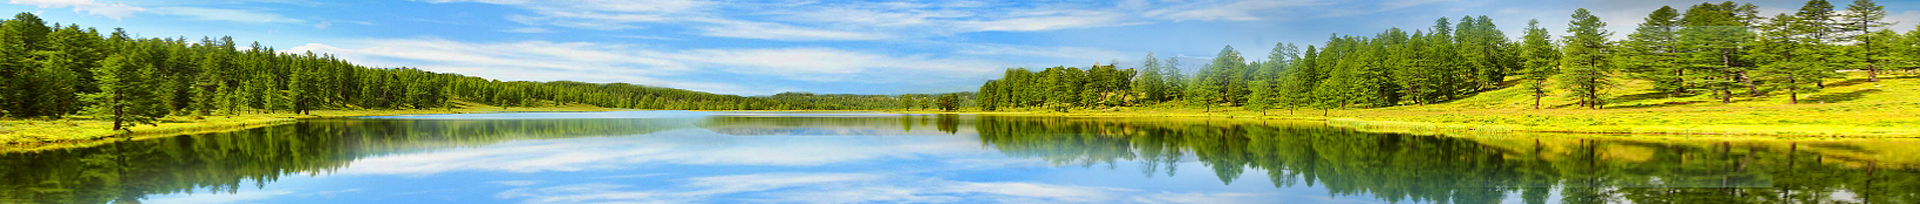
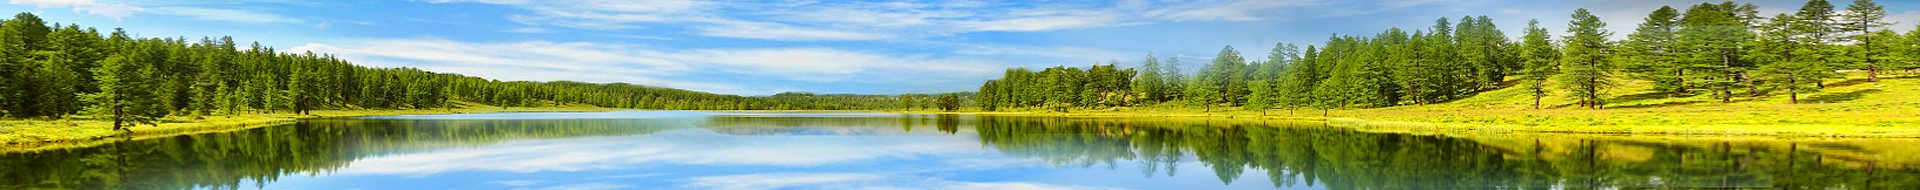
Small fixes

diff --git a/docs/css/bundle.css b/docs/css/bundle.css
@@ -1,1 +1,1 @@
-@font-face{-webkit-font-smoothing:none;font-weight:400;font-style:normal;text-rendering:auto;font-family:Cooper;src:url(../fonts/Cooper.eot);src:url(../fonts/Cooper.eot?#iefix) format('embedded-opentype'),url(../fonts/Cooper.woff) format('woff'),url(../fonts/Cooper.ttf) format('truetype'),url(../fonts/Cooper.svg#RussoOne) format('svg')}*{font-family:"Times New Roman",serif;box-sizing:border-box}body{background-image:url(../img/background-wood-big.png);background-repeat:repeat-y;background-position:center}p{margin:0}.container{position:relative}.header{background-image:url(../img/header.png);background-position:center;height:204px}.header .container{height:100%;padding:5px 15px}.header__item,.header__logo-text,.header__phone{color:#1d316b;font-family:Cooper,Times,cursive;font-size:37px;font-weight:400;line-height:44.41px;text-shadow:-2px 0 #fff,0 2px #fff,2px 0 #fff,0 -2px #fff}.header__logo-text{color:#004c31;position:absolute;left:15px;bottom:10px}.header__item--logo-text{float:right;margin:0}.header__logo{width:90px;height:90px;position:absolute;left:15px;top:25px;background-image:url(../img/logo.png)}.header__phone{position:absolute;right:15px;bottom:10px;text-align:center;font-size:48px;color:#1d316b;text-decoration:none;padding-left:65px}.header__phone:before{content:'';width:47px;height:47px;position:absolute;top:0;left:0;background-image:url(../img/phone.png);background-size:contain;background-repeat:no-repeat;background-position:center}.navbar{height:56px}.navbar .container{position:relative;height:100%}.navbar--wood{background-image:url(../img/navbar-wood.png);background-repeat:repeat-x;background-position:center;background-size:100% 100%;box-shadow:1px 8px 10px rgba(0,0,0,.79);margin-bottom:5px}.navbar__toggler{position:absolute;display:none;border:none;width:50px;height:30px;cursor:pointer;background:0 0;top:0;bottom:0;margin:auto;left:15px}.navbar__toggler .icon-bar{background:#fff;display:block;width:100%;height:3px;margin-bottom:10px}.nav{padding:5px 0;margin:0}.nav__item{position:relative;display:inline-block;height:46px;padding:12px 12px 12px 40px;text-align:center;cursor:pointer}.nav__item:before{content:'';width:25px;height:25px;position:absolute;left:10px;top:0;bottom:0;margin:auto;background-position:center;background-repeat:no-repeat;background-size:contain}.nav__item--active,.nav__item:hover{background-image:url(../img/nav-active.png);background-repeat:no-repeat;background-size:100% 100%}.nav__item--active .nav__link,.nav__item:hover .nav__link{color:#441613}.nav__item--main:before{background-image:url(../img/main.png)}.nav__item--soft:before{background-image:url(../img/soft.png)}.nav__item--apts:before{background-image:url(../img/apts.png)}.nav__item--clients:before{background-image:url(../img/clients.png)}.nav__item--contacts:before{background-image:url(../img/contacts.png)}.nav__item--main.nav__item--active:before,.nav__item--main:hover:before{background-image:url(../img/main-b.png)}.nav__item--soft.nav__item--active:before,.nav__item--soft:hover:before{background-image:url(../img/soft-b.png)}.nav__item--apts.nav__item--active:before,.nav__item--apts:hover:before{background-image:url(../img/apts-b.png)}.nav__item--clients.nav__item--active:before,.nav__item--clients:hover:before{background-image:url(../img/clients-b.png)}.nav__item--contacts:hover:before{background-image:url(../img/contacts-b.png)}.nav__link{color:#fee8ab;text-decoration:none;font-size:22px;font-weight:400}.dropdown{display:none}.row--dust{padding:20px 15px 0 15px;background-image:url(../img/dust-big.png);background-position:center;background-repeat:no-repeat;background-size:100% 100%}.row__footer{height:10px;margin:0 -25px;background-image:url(../img/closer-wood.png);background-position:center center;background-repeat:no-repeat;background-size:100% 100%;margin-bottom:50px}.alphabet{margin-bottom:15px;max-width:370px;text-align:center;left:0;right:0;margin:auto}.alphabet__title{color:#000;font-size:20px;font-weight:400;line-height:24px;margin-bottom:10px}.alphabet__list{padding:0;list-style:none;display:block;margin:0;margin-bottom:15px}.alphabet__item{display:inline-block;margin-right:5px}.alphabet__link{color:#9a5d2b;font-family:"Times New Roman PSMT";font-size:18px;font-weight:400;line-height:24px;text-transform:uppercase;text-decoration:none}.alphabet__link:hover{color:#212121;text-decoration:underline}.icon{display:inline;cursor:pointer}.icon--help{background-image:url(../img/help.png);background-size:contain;background-position:center;width:60px;height:60px}#help{position:absolute;right:15px;top:0;bottom:0;margin:auto}.scroll{margin-bottom:25px;display:-ms-flexbox;display:flex;-ms-flex-direction:column;flex-direction:column}.scroll__body{background-image:url(../img/scroll-bg.png);background-position:center;background-repeat:no-repeat;background-size:100% 100%;box-shadow:1px 5px 13px rgba(0,0,0,.32),inset 1px 5px 5px rgba(0,0,0,.32);border-left:2px solid #ac672d;border-right:2px solid #ac672d;overflow:hidden;padding:10px 20px;height:100%}.scroll__body--fw{padding:20px 0 10px 0}.scroll__body--flex{display:-ms-flexbox;display:flex;-ms-flex-direction:column;flex-direction:column;-ms-flex-wrap:nowrap;flex-wrap:nowrap;-ms-flex-pack:justify;justify-content:space-between;-ms-flex-align:stretch;align-items:stretch;-ms-flex-line-pack:stretch;align-content:stretch}.scroll__header{position:relative;display:-ms-flexbox;display:flex;-ms-flex-direction:row;flex-direction:row;-ms-flex-wrap:nowrap;flex-wrap:nowrap;-ms-flex-pack:center;justify-content:center;-ms-flex-align:center;align-items:center;-ms-flex-line-pack:stretch;align-content:stretch;height:75px!important;padding:14px 20px;margin:0 -5px;text-shadow:1px 3px 3px rgba(75,31,10,.75);color:#fff;font-family:"Times New Roman PSMT";font-size:22px;font-weight:400;line-height:24px;text-align:center;border-radius:5px;background-image:url(../img/scroll-header.png);background-position:center center;background-repeat:no-repeat;background-size:100% 100%}.scroll__header .input{margin:6px 0}.scroll__footer{height:10px;margin:0 -5px;background-image:url(../img/closer-wood.png);background-position:center center;background-repeat:no-repeat;background-size:100% 100%}.search__term{height:73px;background-image:url(../img/term-bg.png);background-position:center center;background-repeat:no-repeat;background-size:100% 100%;box-shadow:1px 5px 5px rgba(0,0,0,.79);border-radius:10px;margin-bottom:15px;padding:10px 15px}.search__button{text-align:center;margin-bottom:10px}.input-group{position:relative;box-shadow:1px 4px 4px rgba(0,0,0,.75),inset 1px 5px 6px 1px rgba(0,0,0,.42);border:2px solid #290c03;border-radius:15px;overflow:hidden}.input-group__input{height:48px;width:100%;padding-left:19px}.input-group__btn{display:block;position:absolute;right:0;top:0;width:43px;height:48px;background-image:url(../img/search-icon.png);background-position:center center;background-repeat:no-repeat;background-size:100% 100%}.input{width:100%;height:35px;box-shadow:1px 4px 4px rgba(0,0,0,.75),inset 1px 2px 3px 1px rgba(0,0,0,.42);border:2px solid #99371d;border-radius:10px;font-size:14px;font-weight:400;line-height:35px;padding:0 15px}.filters{padding:10px 30px;background-image:url(../img/filters-bg.png);background-position:center center;background-repeat:no-repeat;background-size:100% 100%;margin-bottom:15px}.filters__title{color:#555;font-size:18px;font-weight:400;line-height:24px;text-align:center;margin-bottom:10px}.filters__cleaner{color:#532a1e;font-size:18px;font-weight:400;line-height:24px;text-decoration:underline;text-align:center;display:block}.filters__cleaner:hover{text-decoration:none}.filters__filter{margin-bottom:10px}.select{position:relative;width:100%}.select__placeholder{position:relative;display:block;overflow:hidden;height:29px;box-shadow:inset 1px 3px 3px rgba(0,0,0,.29);border:1px solid #c5a14a;font-size:16px;font-weight:400;line-height:29px;border-radius:5px;padding:0 30px 0 15px;text-align:left;color:#868686;background-color:#fff;cursor:pointer;white-space:nowrap}.select__inner{display:none;position:absolute;width:95%;top:28px;left:0;right:0;margin:auto;background:#fff;border:1px solid #b78e4e;border-radius:0 0 5px 5px;z-index:2;overflow:hidden}.select__item{cursor:pointer;padding:5px 10px;color:#4c4c4c;border:1px solid #fff}.select__item:hover{border:1px solid #b4ac7e;background-image:linear-gradient(to top,#d4b789 0,#e6cfac 100%);color:#6b4222}.select:after{content:"";position:absolute;right:0;top:0;width:27px;height:29px;background-image:url(../img/select.png);background-position:center center;background-repeat:no-repeat;background-size:100% 100%;cursor:pointer}.select--active .select__inner{display:block}.select--active:after{background-image:url(../img/select-opened.png)}.btn{background-color:none;cursor:pointer;border:none;transition:box-shadow .3s ease}.btn--search{text-shadow:1px 4px 3px rgba(0,0,0,.75);color:#fee8ab;font-size:18px;font-weight:400;line-height:45px;text-transform:uppercase;height:45px;width:250px;background-image:url(../img/btn-wood.png);background-position:center center;background-repeat:no-repeat;background-size:100% 100%;border-radius:25px;box-shadow:1px 5px 5px rgba(0,0,0,.79)}.btn--search:hover{box-shadow:1px 3px 3px rgba(0,0,0,.79)}.btn--search:active{box-shadow:1px 2px 2px rgba(0,0,0,.79)}.list{margin:0;padding:0;list-style:none}.list__item{display:block;cursor:pointer;background-image:linear-gradient(to bottom,#f9f6eb 0,#e6dbca 100%);border-bottom:1px solid #c5baa7;padding:0 50px}.list__item span{line-height:41px}.list__item .list__link{color:#252525}.list__item:hover{background-image:linear-gradient(to top,#511c04 0,#b1390d 100%)}.list__item:hover .list__link,.list__item:hover span{color:#fff}.list__link{font-size:18px;font-weight:400;line-height:41px;text-decoration:none}.pull--right{float:right}.news__item{position:relative;display:-ms-flexbox;display:flex;padding:10px 0;border-bottom:1px solid #d3b59e}.news__item__desc{width:calc(100% - 115px)}.news__img{width:100px;height:100px;margin-right:15px;overflow:hidden}.news__img img{width:100%}.news__date{color:#606060;font-size:18px;font-weight:400;line-height:18px;margin-bottom:15px}.news__title{color:#252525;font-size:18px;font-weight:400;line-height:18px;margin-bottom:15px}.news__link{display:block;text-align:right;right:0;font-size:16px;font-weight:400;line-height:18px;text-decoration:underline;color:#4b2a06}.link{position:relative;display:block;color:#532a1e;font-size:20px;font-weight:400;line-height:24px;text-decoration:underline;text-align:center}.link--eye{padding-left:35px;margin-top:25px;margin-bottom:20px}.link--eye:before{position:absolute;content:'';width:30px;height:25px;left:10px;top:0;bottom:0;margin:auto;background-image:url(../img/eye.png);background-repeat:no-repeat;background-position:center;background-size:contain}.map{background-color:#ccc;background-image:url(../img/map.png);width:100%;height:100%;cursor:pointer}.cart{position:absolute;right:15px;top:0;bottom:0;margin:auto;height:47px;width:180px;background-image:url(../img/cart-bg.png);background-position:center;background-size:100% 100%;background-repeat:no-repeat;padding:5px 5px 5px 60px;text-align:center}.cart__title{font-size:18px;font-weight:400;line-height:20px;color:#fde7a9;margin-bottom:0;text-transform:uppercase}.cart__inner{font-size:14px;font-weight:400;line-height:18px;color:#fde7a9;margin-bottom:0}.cart::before{content:'';position:absolute;left:20px;width:30px;height:25px;top:0;bottom:0;margin:auto;background-image:url(../img/cart.png);background-position:center;background-size:contain}@media only screen and (min-width :768px) and (max-width:991px){.header{height:165px}.header__item,.header__logo-text,.header__phone{font-size:24px;line-height:28px}.header__phone{padding-left:50px}.header__phone:before{width:35px;height:35px}}@media only screen and (min-width :992px) and (max-width:1199px){.header{height:180px}.header__item,.header__logo-text,.header__phone{font-size:31px;line-height:36px}.header__phone:before{width:40px;height:40px}.nav__item{padding:12px 12px 12px 30px}.nav__item:before{width:20px;height:20px;left:5px}}@media only screen and (min-width :1200px){.nav__item{padding-left:50px}}@media only screen and (max-width :767px){.container{width:100%}.header{height:150px}.header__item,.header__logo-text,.header__phone{font-size:18px;line-height:26px}.header__logo-text{display:none}.header__item--logo-text{float:none;text-align:center}.header__logo{display:none}.header__phone{padding-left:40px;left:0;right:0;margin:auto;width:160px}.header__phone:before{width:30px;height:30px}.nav__item{display:block;width:100%;text-align:left;padding:12px 50px}.row__footer{margin:0 -15px;margin-bottom:50px}.icon--help{width:30px;height:30px}#help{right:10px}.scroll{padding:0}.scroll__header{font-size:16px;line-height:20px}.input-group__input{font-size:14px}.btn--search{width:200px}.news__item{display:block}.news__item__desc{width:100%}.news__img{display:none}.news__date{margin-bottom:5px}.news__title{margin-bottom:5px}.map{height:300px}}@media only screen and (max-width :991px){.navbar__toggler{display:block}.nav{position:absolute;left:0;top:60px;max-height:0;height:auto;transition:max-height .25s ease-out;overflow:hidden;z-index:99;width:100%;padding:0;background-size:100% 100%;background-color:#702307}.nav--active{max-height:500px;transition:max-height .35s ease-in}}
+@font-face{-webkit-font-smoothing:none;font-weight:400;font-style:normal;text-rendering:auto;font-family:Cooper;src:url(../fonts/Cooper.eot);src:url(../fonts/Cooper.eot?#iefix) format('embedded-opentype'),url(../fonts/Cooper.woff) format('woff'),url(../fonts/Cooper.ttf) format('truetype'),url(../fonts/Cooper.svg#RussoOne) format('svg')}*{font-family:"Times New Roman",serif!important;box-sizing:border-box}body{background-image:url(../img/background-wood-big.png);background-repeat:repeat-y;background-position:center}p{margin:0}.container{position:relative}.header{background-image:url(../img/header.png);background-position:center;height:190px}.header .container{height:100%;padding:5px 15px}.header__item,.header__logo-text,.header__phone{color:#1d316b;font-family:Cooper,Times,cursive;font-size:37px;font-weight:400;line-height:44.41px;text-shadow:-2px 0 #fff,0 2px #fff,2px 0 #fff,0 -2px #fff}.header__logo-text{color:#004c31;position:absolute;left:15px;bottom:10px}.header__item--logo-text{float:right;margin:0}.header__logo{width:90px;height:90px;position:absolute;left:15px;top:25px;background-image:url(../img/logo.png)}.header__phone{position:absolute;right:15px;bottom:10px;text-align:center;font-size:48px;color:#1d316b;text-decoration:none;padding-left:65px}.header__phone:before{content:'';width:47px;height:47px;position:absolute;top:0;left:0;background-image:url(../img/phone.png);background-size:contain;background-repeat:no-repeat;background-position:center}.navbar{height:56px}.navbar .container{position:relative;height:100%}.navbar--wood{background-image:url(../img/navbar-wood.png);background-repeat:repeat-x;background-position:center;background-size:100% 100%;box-shadow:1px 8px 10px rgba(0,0,0,.79);margin-bottom:5px}.navbar__toggler{position:absolute;display:none;border:none;width:50px;height:30px;cursor:pointer;background:0 0;top:0;bottom:0;margin:auto;left:15px}.navbar__toggler .icon-bar{background:#fff;display:block;width:100%;height:3px;margin-bottom:10px}.nav{padding:5px 0;margin:0}.nav__item{position:relative;display:inline-block;height:46px;padding:12px 12px 12px 40px;text-align:center;cursor:pointer}.nav__item:before{content:'';width:25px;height:25px;position:absolute;left:10px;top:0;bottom:0;margin:auto;background-position:center;background-repeat:no-repeat;background-size:contain}.nav__item--active,.nav__item:hover{background-image:url(../img/nav-active.png);background-repeat:no-repeat;background-size:100% 100%}.nav__item--active .nav__link,.nav__item:hover .nav__link{color:#441613}.nav__item--main:before{background-image:url(../img/main.png)}.nav__item--soft:before{background-image:url(../img/soft.png)}.nav__item--apts:before{background-image:url(../img/apts.png)}.nav__item--clients:before{background-image:url(../img/clients.png)}.nav__item--contacts:before{background-image:url(../img/contacts.png)}.nav__item--main.nav__item--active:before,.nav__item--main:hover:before{background-image:url(../img/main-b.png)}.nav__item--soft.nav__item--active:before,.nav__item--soft:hover:before{background-image:url(../img/soft-b.png)}.nav__item--apts.nav__item--active:before,.nav__item--apts:hover:before{background-image:url(../img/apts-b.png)}.nav__item--clients.nav__item--active:before,.nav__item--clients:hover:before{background-image:url(../img/clients-b.png)}.nav__item--contacts:hover:before{background-image:url(../img/contacts-b.png)}.nav__link{color:#fee8ab;text-decoration:none;font-size:22px;font-weight:400}.dropdown{display:none}.row--dust{padding:20px 15px 0 15px;background-image:url(../img/dust-big.png);background-position:center;background-repeat:no-repeat;background-size:100% 100%}.row__footer{height:10px;margin:0 -25px;background-image:url(../img/closer-wood.png);background-position:center center;background-repeat:no-repeat;background-size:100% 100%;margin-bottom:50px}.alphabet{margin-bottom:15px;max-width:370px;text-align:center;left:0;right:0;margin:auto}.alphabet__title{color:#000;font-size:20px;font-weight:400;line-height:24px;margin-bottom:10px}.alphabet__list{padding:0;list-style:none;display:block;margin:0;margin-bottom:15px}.alphabet__item{display:inline-block;margin-right:5px}.alphabet__link{color:#9a5d2b;font-size:18px;font-weight:400;line-height:24px;text-transform:uppercase;text-decoration:none}.alphabet__link:hover{color:#212121;text-decoration:underline}.icon{display:inline;cursor:pointer}.icon--help{background-image:url(../img/help.png);background-size:contain;background-position:center;width:60px;height:60px}#help{position:absolute;right:15px;top:0;bottom:0;margin:auto}.scroll{margin-bottom:25px;display:-ms-flexbox;display:flex;-ms-flex-direction:column;flex-direction:column}.scroll__body{background-image:url(../img/scroll-bg.png);background-position:center;background-repeat:no-repeat;background-size:100% 100%;box-shadow:1px 5px 13px rgba(0,0,0,.32),inset 1px 5px 5px rgba(0,0,0,.32);border-left:2px solid #ac672d;border-right:2px solid #ac672d;overflow:hidden;padding:10px 20px;height:100%}.scroll__body--fw{padding:20px 0 10px 0}.scroll__body--flex{display:-ms-flexbox;display:flex;-ms-flex-direction:column;flex-direction:column;-ms-flex-wrap:nowrap;flex-wrap:nowrap;-ms-flex-pack:justify;justify-content:space-between;-ms-flex-align:stretch;align-items:stretch;-ms-flex-line-pack:stretch;align-content:stretch}.scroll__header{position:relative;display:-ms-flexbox;display:flex;-ms-flex-direction:row;flex-direction:row;-ms-flex-wrap:nowrap;flex-wrap:nowrap;-ms-flex-pack:center;justify-content:center;-ms-flex-align:center;align-items:center;-ms-flex-line-pack:stretch;align-content:stretch;height:75px!important;padding:14px 20px;margin:0 -5px;text-shadow:1px 3px 3px rgba(75,31,10,.75);color:#fff;font-size:22px;font-weight:400;line-height:24px;text-align:center;border-radius:5px;background-image:url(../img/scroll-header.png);background-position:center center;background-repeat:no-repeat;background-size:100% 100%}.scroll__header .input{margin:6px 0}.scroll__footer{height:14px;min-height:14px;margin:0 -5px;background-image:url(../img/closer-small.png);background-position:center center;background-repeat:no-repeat;background-size:100% 100%}.search__term{height:73px;background-image:url(../img/term-bg.png);background-position:center center;background-repeat:no-repeat;background-size:100% 100%;box-shadow:1px 5px 5px rgba(0,0,0,.79);border-radius:10px;margin-bottom:15px;padding:10px 15px}.search__button{text-align:center;margin-bottom:10px}.input-group{position:relative;box-shadow:1px 4px 4px rgba(0,0,0,.75),inset 1px 5px 6px 1px rgba(0,0,0,.42);border:2px solid #290c03;border-radius:15px;overflow:hidden}.input-group__input{height:48px;width:100%;padding-left:19px}.input-group__btn{display:block;position:absolute;right:0;top:0;width:43px;height:48px;background-image:url(../img/search-icon.png);background-position:center center;background-repeat:no-repeat;background-size:100% 100%}.input{width:100%;height:35px;box-shadow:1px 4px 4px rgba(0,0,0,.75),inset 1px 2px 3px 1px rgba(0,0,0,.42);border:2px solid #99371d;border-radius:10px;font-size:14px;font-weight:400;line-height:35px;padding:0 15px}.filters{padding:10px 30px;background-image:url(../img/filters-bg.png);background-position:center center;background-repeat:no-repeat;background-size:100% 100%;margin-bottom:15px}.filters__title{color:#555;font-size:18px;font-weight:400;line-height:24px;text-align:center;margin-bottom:10px}.filters__cleaner{color:#532a1e;font-size:18px;font-weight:400;line-height:24px;text-decoration:underline;text-align:center;display:block}.filters__cleaner:hover{text-decoration:none}.filters__filter{margin-bottom:10px}.select{position:relative;width:100%}.select__placeholder{position:relative;display:block;overflow:hidden;height:29px;box-shadow:inset 1px 3px 3px rgba(0,0,0,.29);border:1px solid #c5a14a;font-size:16px;font-weight:400;line-height:29px;border-radius:5px;padding:0 30px 0 15px;text-align:left;color:#868686;background-color:#fff;cursor:pointer;white-space:nowrap}.select__inner{display:none;position:absolute;width:95%;top:28px;left:0;right:0;margin:auto;background:#fff;border:1px solid #b78e4e;border-radius:0 0 5px 5px;z-index:2;overflow:hidden}.select__item{cursor:pointer;padding:5px 10px;color:#4c4c4c;border:1px solid #fff}.select__item:hover{border:1px solid #b4ac7e;background-image:linear-gradient(to top,#d4b789 0,#e6cfac 100%);color:#6b4222}.select:after{content:"";position:absolute;right:0;top:0;width:27px;height:29px;background-image:url(../img/select.png);background-position:center center;background-repeat:no-repeat;background-size:100% 100%;cursor:pointer}.select--active .select__inner{display:block}.select--active:after{background-image:url(../img/select-opened.png)}.btn{background-color:none;cursor:pointer;border:none;transition:box-shadow .3s ease}.btn--search{text-shadow:1px 4px 3px rgba(0,0,0,.75);color:#fee8ab;font-size:18px;font-weight:400;line-height:45px;text-transform:uppercase;height:45px;width:250px;background-image:url(../img/btn-wood.png);background-position:center center;background-repeat:no-repeat;background-size:100% 100%;border-radius:25px;box-shadow:1px 5px 5px rgba(0,0,0,.79)}.btn--search:hover{box-shadow:1px 3px 3px rgba(0,0,0,.79)}.btn--search:active{box-shadow:1px 2px 2px rgba(0,0,0,.79)}.list{margin:0;padding:0;list-style:none}.list__item{display:block;cursor:pointer;background-image:linear-gradient(to bottom,#f9f6eb 0,#e6dbca 100%);border-bottom:1px solid #c5baa7;padding:0 50px}.list__item span{line-height:41px}.list__item .list__link{color:#252525}.list__item:hover{background-image:linear-gradient(to top,#511c04 0,#b1390d 100%)}.list__item:hover .list__link,.list__item:hover span{color:#fff}.list__link{font-size:18px;font-weight:400;line-height:41px;text-decoration:none}.pull--right{float:right}.news__item{position:relative;display:-ms-flexbox;display:flex;padding:10px 0;border-bottom:1px solid #d3b59e}.news__item__desc{width:calc(100% - 115px)}.news__img{width:100px;height:100px;margin-right:15px;overflow:hidden}.news__img img{width:100%}.news__date{color:#606060;font-size:18px;font-weight:400;line-height:18px;margin-bottom:15px}.news__title{color:#252525;font-size:18px;font-weight:400;line-height:18px;margin-bottom:15px}.news__link{display:block;text-align:right;right:0;font-size:16px;font-weight:400;line-height:18px;text-decoration:underline;color:#4b2a06}.link{position:relative;display:block;color:#532a1e;font-size:20px;font-weight:400;line-height:24px;text-decoration:underline;text-align:center}.link--eye{padding-left:35px;margin-top:25px;margin-bottom:20px}.link--eye:before{position:absolute;content:'';width:30px;height:25px;left:10px;top:0;bottom:0;margin:auto;background-image:url(../img/eye.png);background-repeat:no-repeat;background-position:center;background-size:contain}.map{background-color:#ccc;background-image:url(../img/map.png);width:100%;height:100%;cursor:pointer}.cart{position:absolute;right:15px;top:0;bottom:0;margin:auto;height:47px;width:180px;background-image:url(../img/cart-bg.png);background-position:center;background-size:100% 100%;background-repeat:no-repeat;padding:5px 5px 5px 60px;text-align:center}.cart__title{font-size:18px;font-weight:400;line-height:20px;color:#fde7a9;margin-bottom:0;text-transform:uppercase}.cart__inner{font-size:14px;font-weight:400;line-height:18px;color:#fde7a9;margin-bottom:0}.cart::before{content:'';position:absolute;left:20px;width:30px;height:25px;top:0;bottom:0;margin:auto;background-image:url(../img/cart.png);background-position:center;background-size:contain}@media only screen and (min-width :768px) and (max-width:991px){.header{height:165px}.header__item,.header__logo-text,.header__phone{font-size:24px;line-height:28px}.header__phone{padding-left:50px}.header__phone:before{width:35px;height:35px}}@media only screen and (min-width :992px) and (max-width:1199px){.header{height:180px}.header__item,.header__logo-text,.header__phone{font-size:31px;line-height:36px}.header__phone:before{width:40px;height:40px}.nav__item{padding:12px 12px 12px 30px}.nav__item:before{width:20px;height:20px;left:5px}}@media only screen and (min-width :1200px){.nav__item{padding-left:50px}}@media only screen and (max-width :767px){.container{width:100%}.header{height:150px}.header__item,.header__logo-text,.header__phone{font-size:18px;line-height:26px}.header__logo-text{display:none}.header__item--logo-text{float:none;text-align:center}.header__logo{display:none}.header__phone{padding-left:40px;left:0;right:0;margin:auto;width:160px}.header__phone:before{width:30px;height:30px}.nav__item{display:block;width:100%;text-align:left;padding:12px 50px}.row__footer{margin:0 -15px;margin-bottom:50px}.icon--help{width:30px;height:30px}#help{right:10px}.scroll{padding:0}.scroll__header{font-size:16px;line-height:20px}.input-group__input{font-size:14px}.btn--search{width:200px}.news__item{display:block}.news__item__desc{width:100%}.news__img{display:none}.news__date{margin-bottom:5px}.news__title{margin-bottom:5px}.map{height:300px}}@media only screen and (max-width :991px){.navbar__toggler{display:block}.nav{position:absolute;left:0;top:60px;max-height:0;height:auto;transition:max-height .25s ease-out;overflow:hidden;z-index:99;width:100%;padding:0;background-size:100% 100%;background-color:#702307}.nav--active{max-height:500px;transition:max-height .35s ease-in}}

diff --git a/src/less/main.less b/src/less/main.less
@@ -4,7 +4,7 @@
 @import "./imports/_fonts.less";
 
 * {
-  font-family: "Times New Roman",serif;
+  font-family: "Times New Roman",serif !important;
   box-sizing: border-box;
 }
 
@@ -33,7 +33,7 @@ p {
 .header {
   background-image:  url('../img/header.png');
   background-position: center;
-  height: 204px;
+  height: 190px;
 
   @media @desktop {
     height: 180px;
@@ -414,7 +414,6 @@ p {
 
   &__link {
     color: #9a5d2b;
-    font-family: "Times New Roman PSMT";
     font-size: 18px;
     font-weight: 400;
     line-height: 24px;
@@ -524,7 +523,6 @@ p {
 
     text-shadow: 1px 3px 3px rgba(75, 31, 10, 0.75);
     color: #ffffff;
-    font-family: "Times New Roman PSMT";
     
     font-size: 22px;
     font-weight: 400;
@@ -552,11 +550,12 @@ p {
   }
 
   &__footer {
-    height: 10px;
+    height: 14px;
+    min-height: 14px;
 
     margin: 0 -5px;
 
-    background-image: url('../img/closer-wood.png');
+    background-image: url('../img/closer-small.png');
     background-position: center center;
     background-repeat: no-repeat;
     background-size: 100% 100%;
